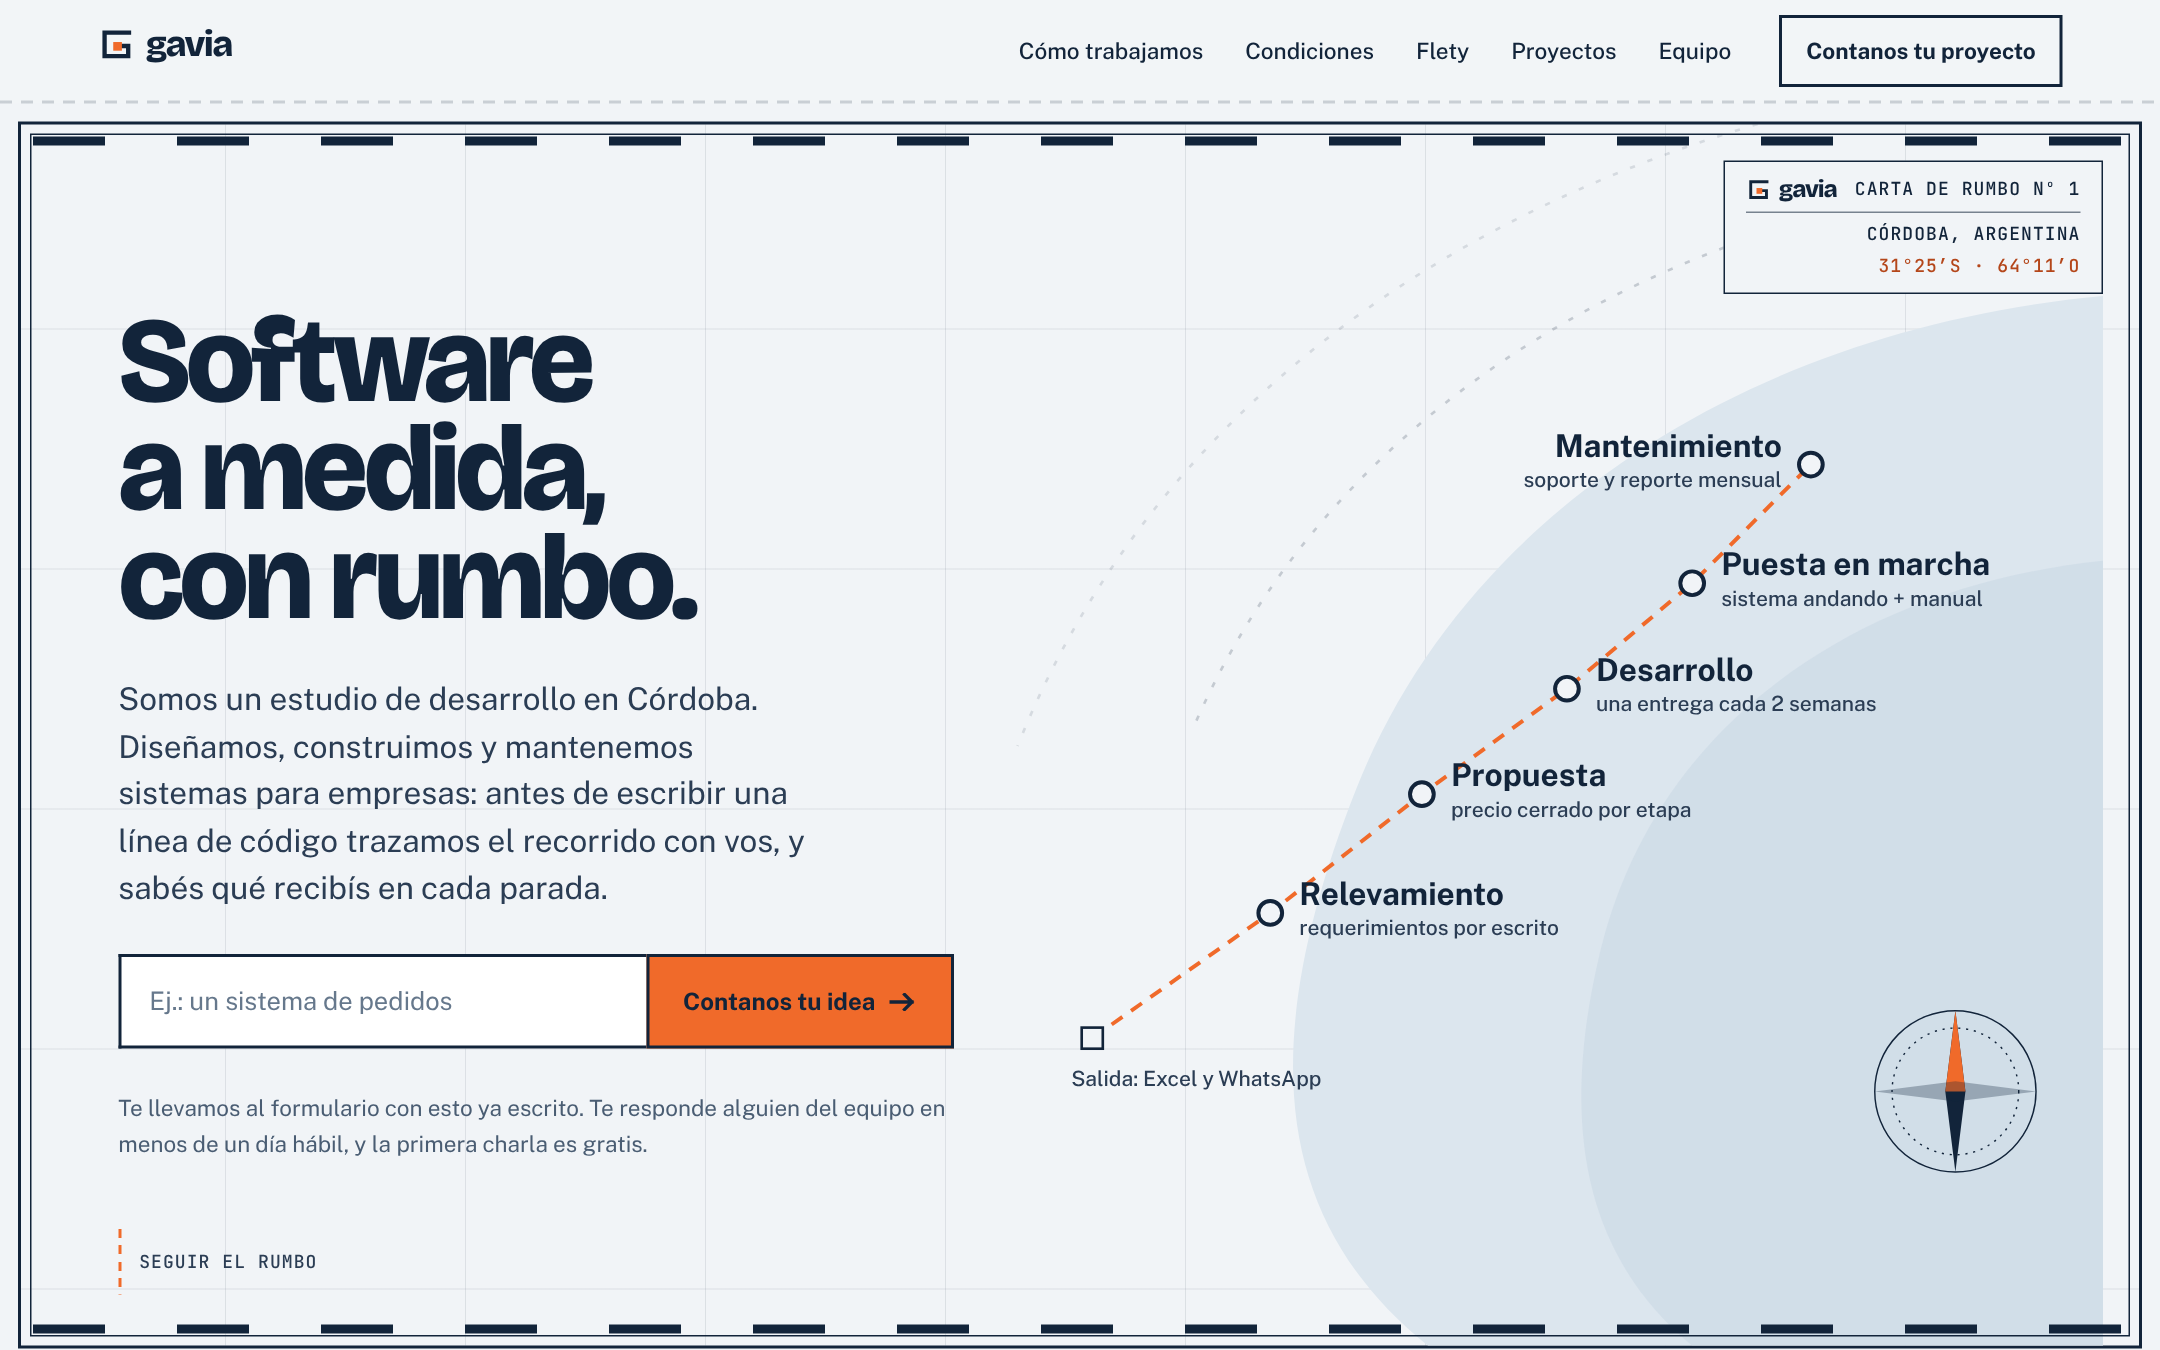
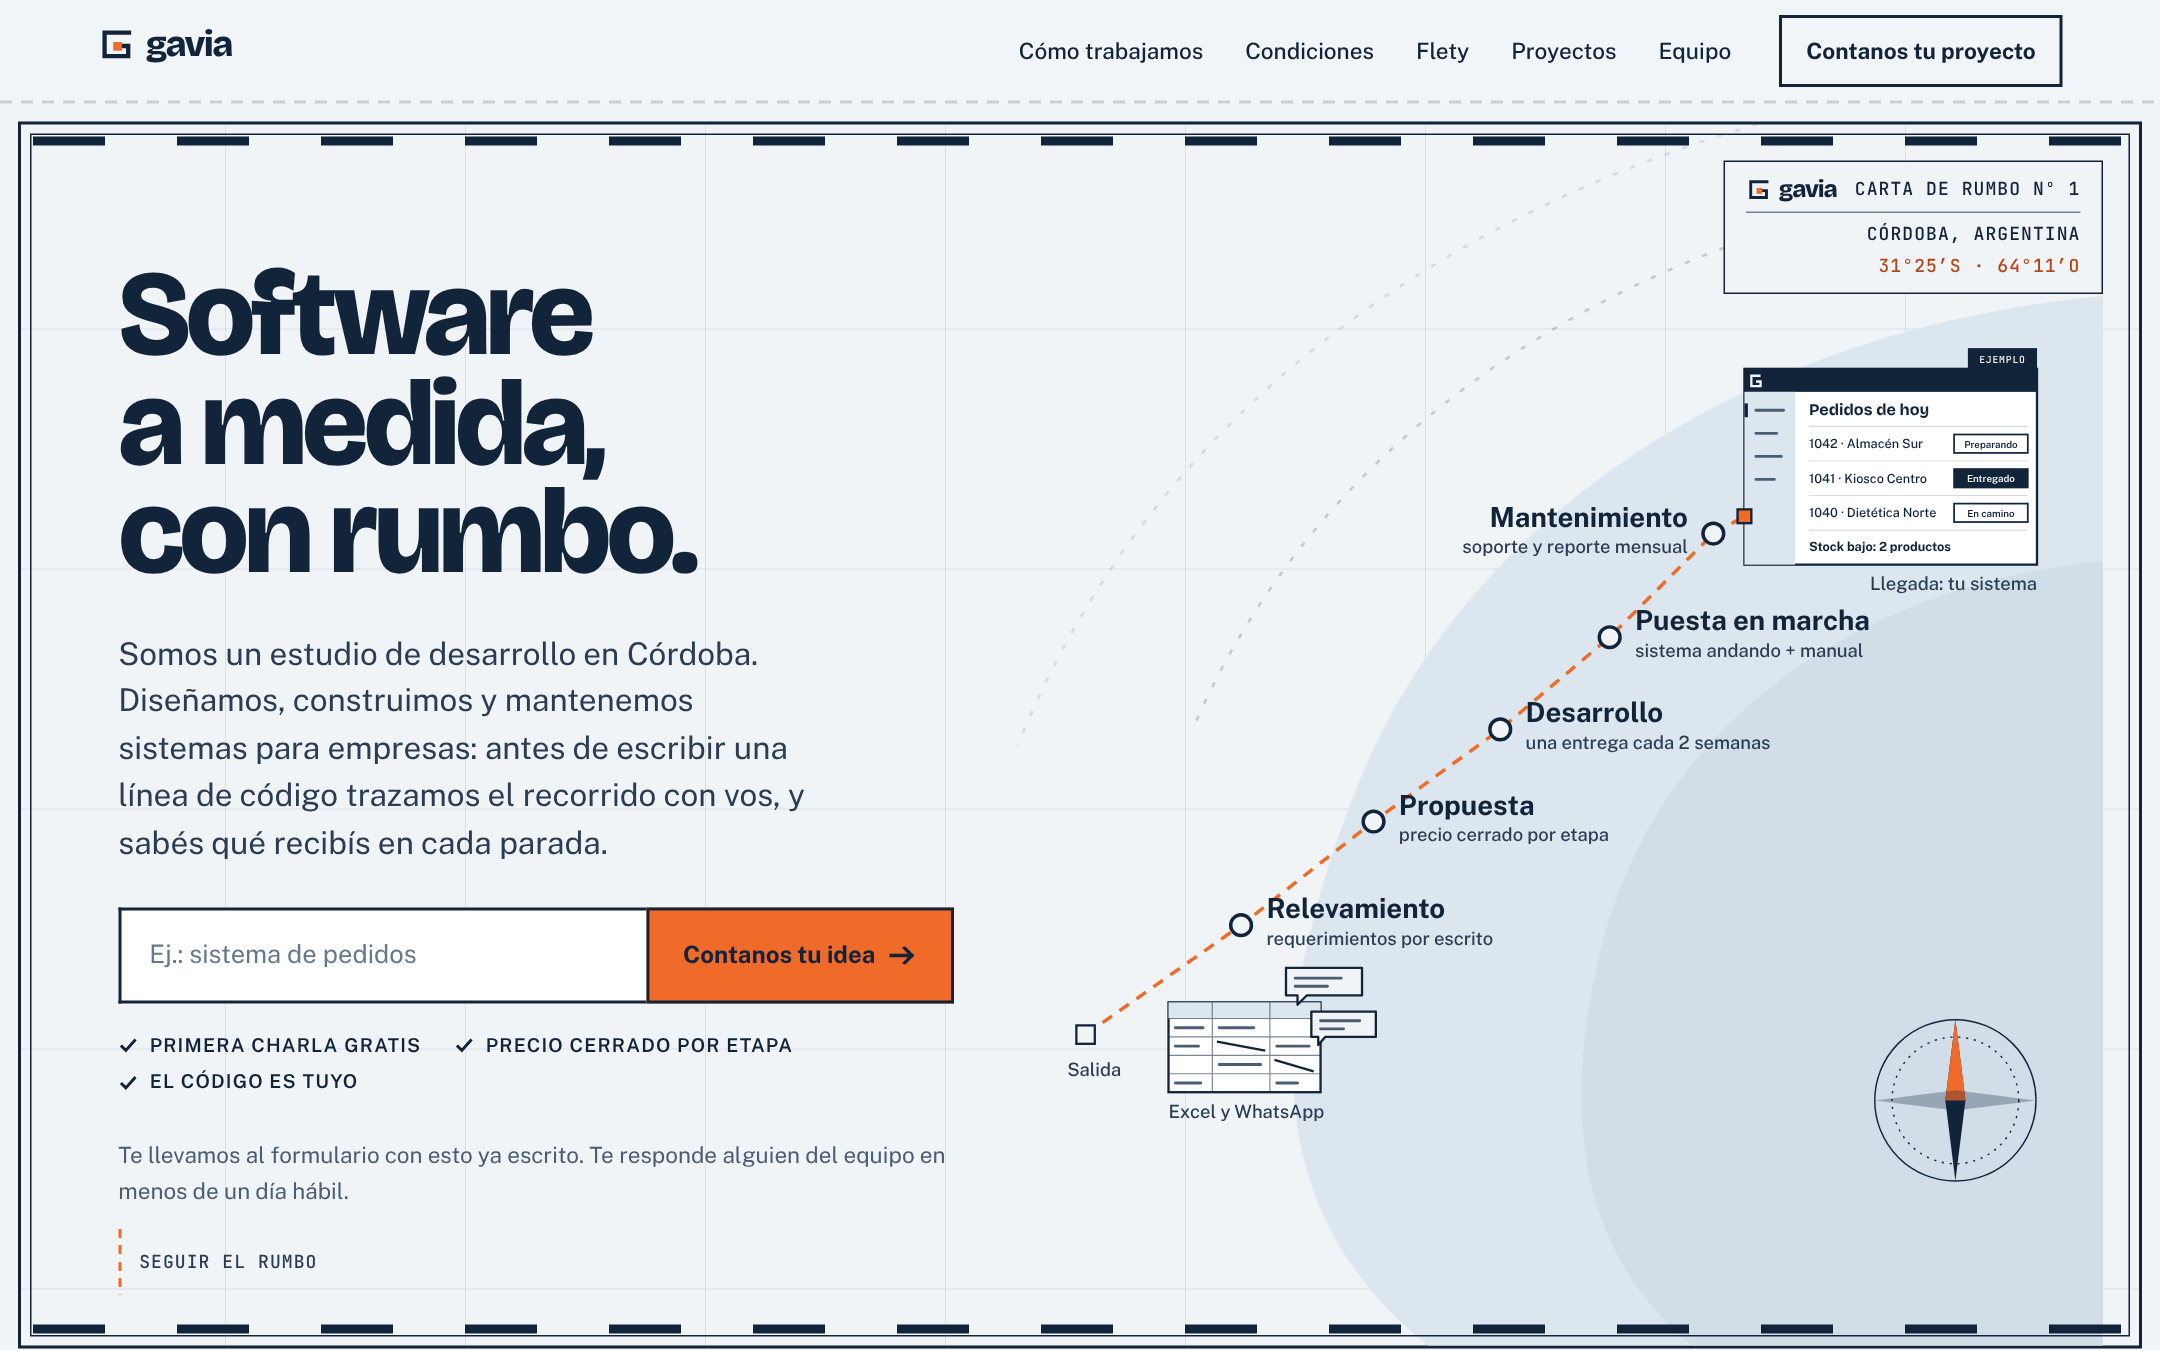
feat: show where the course leads in the hero
The route now starts at a drawn spreadsheet with WhatsApp messages and ends at an example order-management screen, so the hero shows the software instead of only the process. Adds the three reasons to write under the form and aligns the hero with the nav on wide screens.

diff --git a/DESIGN.md b/DESIGN.md
@@ -229,7 +229,7 @@ Barra fija arriba, papel al 94% con desenfoque y filete inferior fino. Logo a la
 Mapa real (MapLibre + OpenFreeMap) recoloreado a la tinta de la carta: ida en papel, vuelta punteada en naranja, un camión que la recorre. Encima, un teléfono con el prototipo de la app; es la única pieza con esquinas redondeadas y tamaños propios, porque representa otro producto.
 
 ### Carta de rumbo (signature)
-La carta del hero: doble filete, escala de grados arriba y abajo, cuadrícula de meridianos cada 160px, bajíos en el ángulo inferior derecho, cartucho arriba a la derecha (papel, contorno 1px, dos líneas en coord; la lectura de coordenadas en naranja legible sigue al cursor). El rumbo sube de abajo a la izquierda hacia arriba a la derecha con cinco puntos de paso; cada punto es un link a su etapa y al pasar el cursor o enfocarlo se llena de naranja, muestra un halo y resalta su entregable.
+La carta del hero: doble filete, escala de grados arriba y abajo, cuadrícula de meridianos cada 160px, bajíos en el ángulo inferior derecho, cartucho arriba a la derecha (papel, contorno 1px, dos líneas en coord; la lectura de coordenadas en naranja legible sigue al cursor). El rumbo sube de abajo a la izquierda hacia arriba a la derecha con cinco puntos de paso; cada punto es un link a su etapa y al pasar el cursor o enfocarlo se llena de naranja, muestra un halo y resalta su entregable. En la salida, una planilla con celdas tachadas y dos globos de mensaje dibujados en tinta (el Excel y WhatsApp de hoy); en la llegada, la pantalla de un sistema de pedidos con pestaña "Ejemplo" y datos inventados. Ambos van solo en tinta: el único naranja es el rumbo y el cuadrado de llegada. Debajo del formulario, tres razones con tilde en `label`: primera charla gratis, precio cerrado por etapa, el código es tuyo.
 
 **Movimiento:** el estado final es el visible por defecto (sin JS y en capturas se ve el rumbo completo). El trazado de entrada es una mejora: se activa solo con JS y sin movimiento reducido, corre una vez (máscara que revela el rumbo en 1.8s, puntos que aparecen escalonados, aguja que se asienta) y la carta vuelve a su estado final.
 
